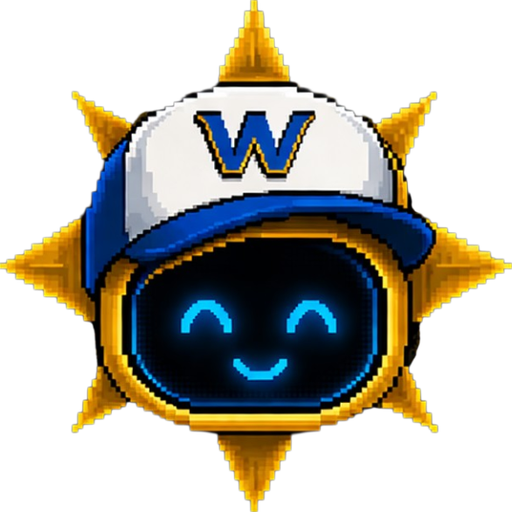
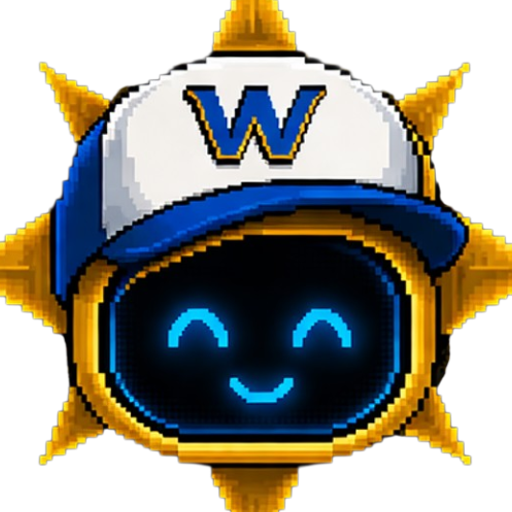
fix(pwa): zoom al icono para que el SUN BOT se vea mas grande
Zoom 1.18 con recorte centrado: agranda la cara+gorra del bot
recortando levemente las puntas de los rayos. Mas presencia en la
barra de tareas. SW cache v3 -> v4.

diff --git a/public/sw.js b/public/sw.js
@@ -3,7 +3,7 @@
  * (manifest + SW con handler de fetch) y dar un fallback offline básico,
  * SIN interferir con autenticación (next-auth) ni con las llamadas a la API.
  */
-const CACHE = 'windmar-ai-v3';
+const CACHE = 'windmar-ai-v4';
 
 // Recursos que precacheamos para el "shell" y el modo offline.
 const PRECACHE = [